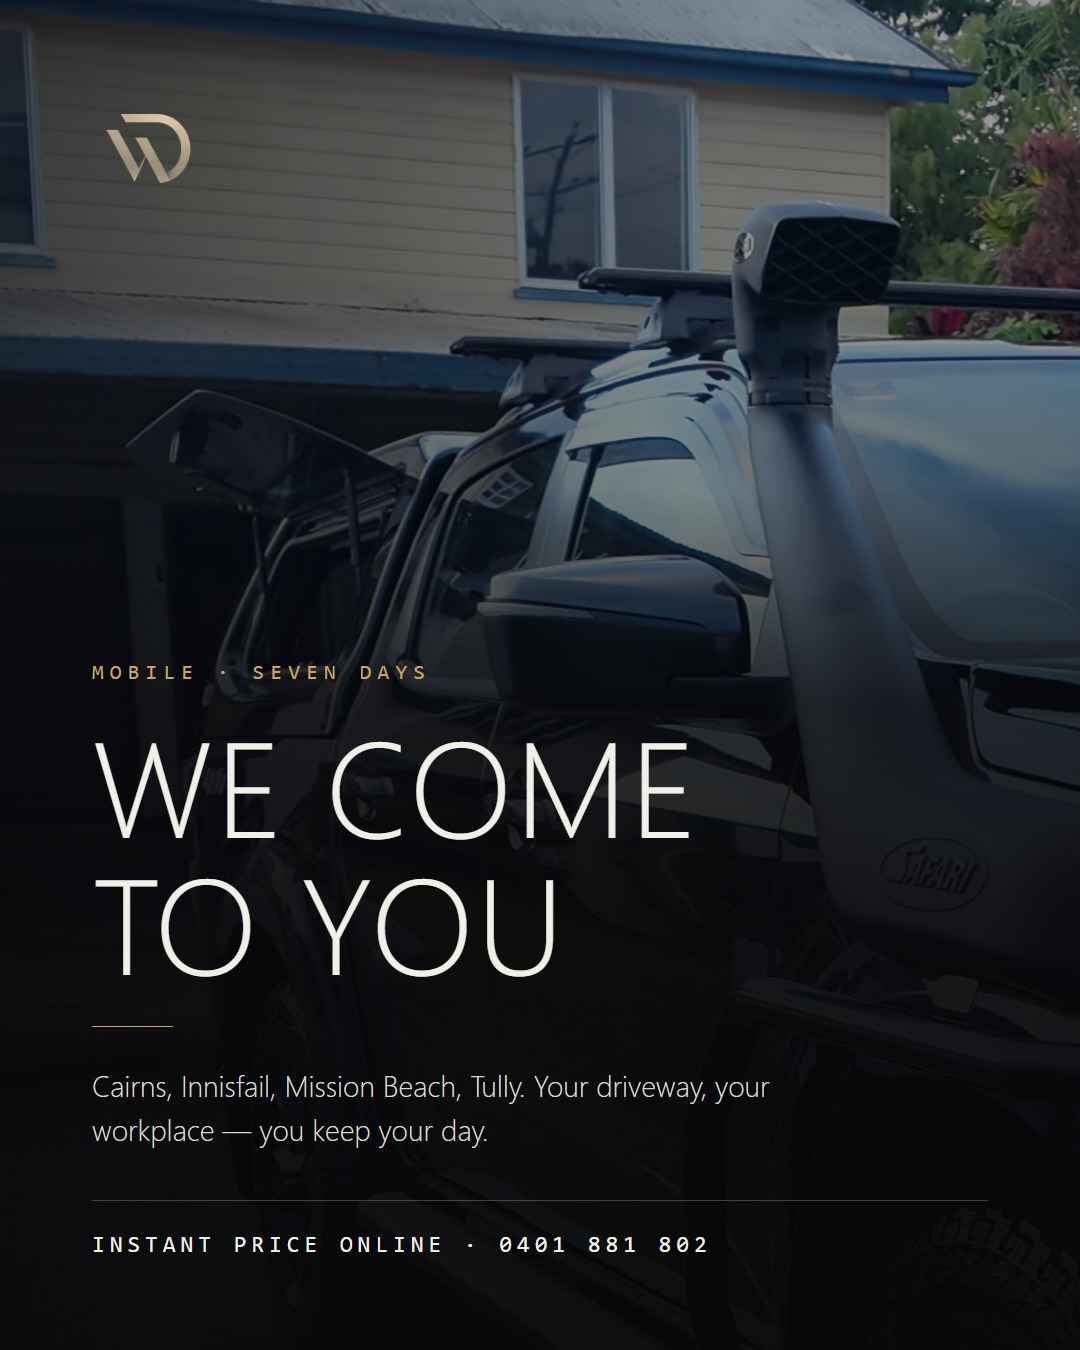
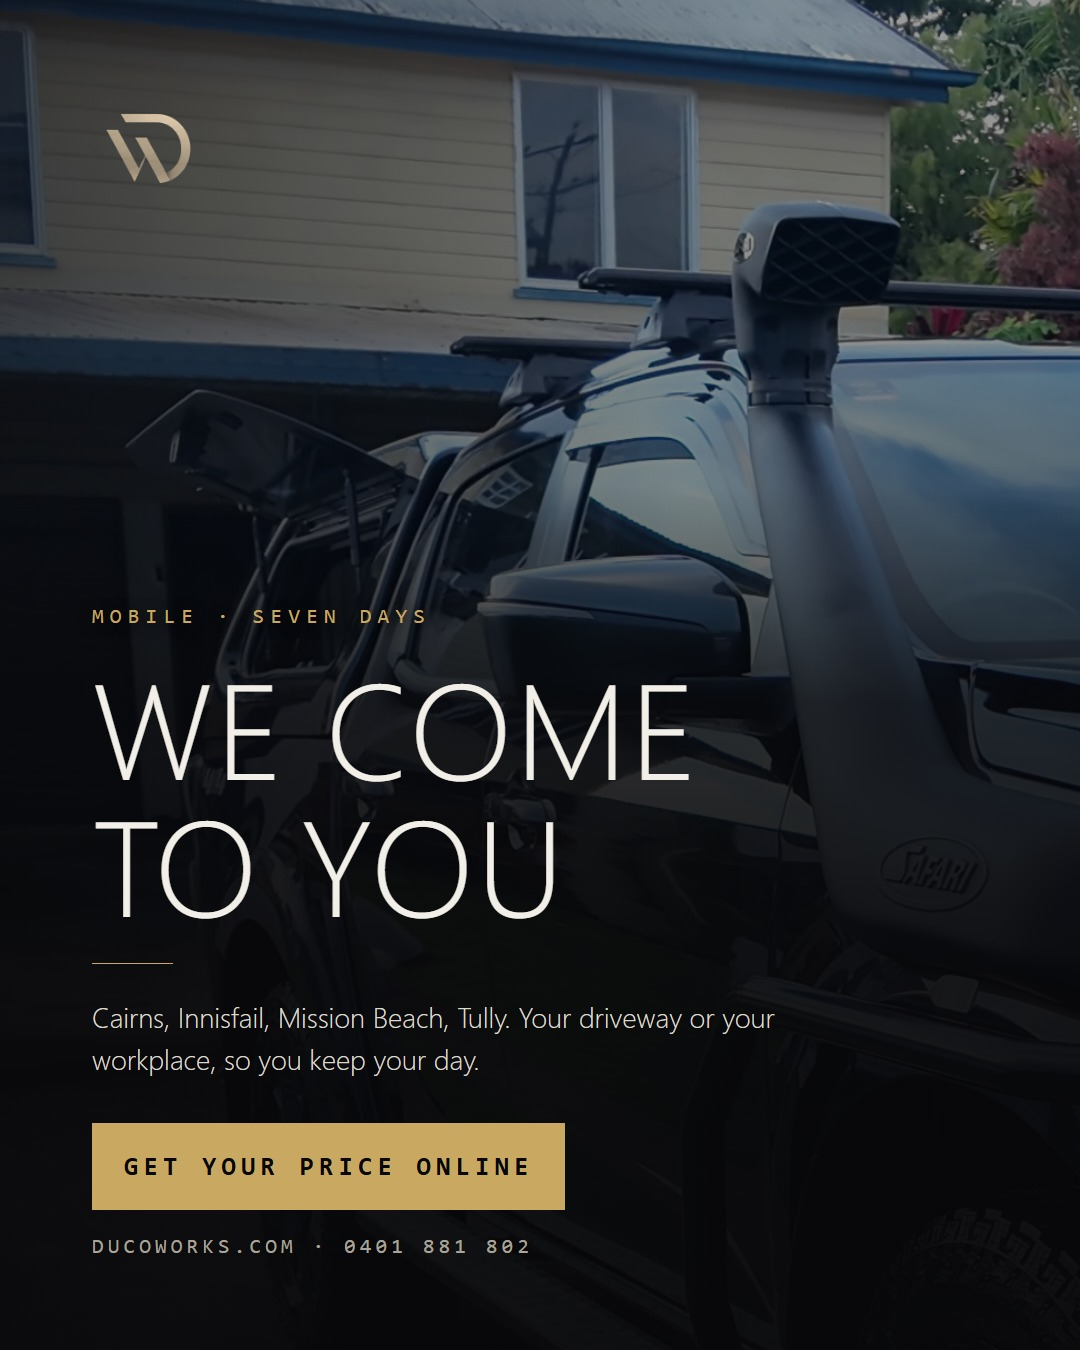
Rework the flyers: value flag, real call to action, new ceramic offer
Three changes that make them work harder:

- A value flag top-right (Save $50 / Free / 100+ cars) so the deal registers
  in the half second someone spends scrolling past.
- The contact line became a solid champagne bar. A block reads as a button;
  a line of text reads as small print.
- Headline sizing eased on three-line variants, which were running to the
  right edge, and the kicker got a shadow so champagne holds over a lit red
  bonnet.

Ceramic offer changed at Tim's request: free interior detail with every
ceramic, replacing the free glass coating. Stronger hook, and a much bigger
giveaway — hours of labour rather than half an hour and some product.

diff --git a/tools/build-flyers.js b/tools/build-flyers.js
@@ -46,32 +46,32 @@ const PHOTOS = {
 
 const FLYERS = [
   {
-    name: '1-launch', photo: 'porsche',
+    name: '1-launch', photo: 'porsche', flag: 'Save $50',
     kicker: 'Launch offer &middot; Cairns to Tully',
     headline: '$50 off<br>your first<br>detail',
-    sub: 'Mobile detailing at your place. Book online in four questions and see the price before you commit.',
-    strip: 'From $190 &middot; ducoworks.com'
+    sub: 'Mobile detailing at your place, seven days. Four questions online and you have the price — no callback, no haggling.',
+    cta: 'Book at ducoworks.com', foot: 'From $190 &middot; 0401 881 802'
   },
   {
-    name: '2-ceramic', photo: 'reflection',
-    kicker: 'Ceramic coating &middot; Innisfail workshop',
-    headline: 'Free glass<br>coating',
-    sub: 'A $180 extra, included with every five-year ceramic. Corrected first, then coated — so the finish holds for years, not weeks.',
-    strip: 'Ceramic from $1,290 &middot; ducoworks.com'
+    name: '2-ceramic', photo: 'reflection', flag: 'Free',
+    kicker: 'Five-year ceramic &middot; Innisfail workshop',
+    headline: 'Free interior<br>detail with<br>every ceramic',
+    sub: 'Paint corrected, then coated for five years. Drop it off and the inside gets done too — at no extra cost.',
+    cta: 'Ceramic from $1,290', foot: 'ducoworks.com &middot; 0401 881 802'
   },
   {
     name: '3-mobile', photo: 'dualcab',
     kicker: 'Mobile &middot; seven days',
     headline: 'We come<br>to you',
-    sub: 'Cairns, Innisfail, Mission Beach, Tully. Your driveway, your workplace — you keep your day.',
-    strip: 'Instant price online &middot; 0401 881 802'
+    sub: 'Cairns, Innisfail, Mission Beach, Tully. Your driveway or your workplace, so you keep your day.',
+    cta: 'Get your price online', foot: 'ducoworks.com &middot; 0401 881 802'
   },
   {
-    name: '4-finish', photo: 'commodore',
-    kicker: 'Over 100 cars this year',
+    name: '4-finish', photo: 'commodore', flag: '100+ cars',
+    kicker: 'Innisfail &middot; Cassowary Coast',
     headline: 'Not just<br>clean.<br>Finished.',
-    sub: 'One operator, one standard, every car. Precision. Finish. Preserve.',
-    strip: 'ducoworks.com &middot; 0401 881 802'
+    sub: 'One operator, one standard, every car. Over a hundred of them this year.',
+    cta: 'See the work', foot: 'ducoworks.com &middot; 0401 881 802'
   }
 ];
 
@@ -80,6 +80,8 @@ function page(f, W, H) {
   const r = p.rect;
   // Scale the master so the chosen rectangle exactly fills the canvas.
   const scale = Math.max(W / r.w, H / r.h);
+  const lines = f.headline.split('<br>').length;
+  const pad = Math.round(W * .085);
   return `<!doctype html><meta charset="utf-8">
 <style>
   *{margin:0;padding:0;box-sizing:border-box}
@@ -99,32 +101,53 @@ function page(f, W, H) {
           rgba(8,8,10,${p.night ? '.22' : '.4'}) 64%,
           rgba(8,8,10,${p.night ? '.1' : '.3'}) 100%),
         linear-gradient(100deg, rgba(8,8,10,${p.night ? '.4' : '.55'}) 0%, transparent 58%)}
-  .inner{position:absolute;inset:0;padding:${Math.round(W * .085)}px;
+
+  .inner{position:absolute;inset:0;padding:${pad}px;
          display:flex;flex-direction:column;justify-content:space-between}
+  .top{display:flex;align-items:flex-start;justify-content:space-between}
   .mark{width:${Math.round(W * .105)}px;height:auto;display:block}
+
+  /* The deal has to read in the half second someone spends scrolling past. */
+  .flag{border:1px solid #c9a961;color:#c9a961;
+        font-family:Consolas,monospace;font-size:${Math.round(W * .021)}px;
+        letter-spacing:.24em;text-transform:uppercase;
+        padding:${Math.round(W * .015)}px ${Math.round(W * .026)}px}
+
   .kicker{font-family:Consolas,monospace;font-size:${Math.round(W * .0195)}px;
-          letter-spacing:.3em;text-transform:uppercase;color:#c9a961;margin-bottom:${Math.round(W * .028)}px}
-  h1{font-size:${Math.round(W * (f.headline.split('<br>').length > 2 ? .107 : .125))}px;
+          letter-spacing:.3em;text-transform:uppercase;color:#c9a961;
+          text-shadow:0 2px 14px rgba(8,8,10,.9);
+          margin-bottom:${Math.round(W * .026)}px}
+  h1{font-size:${Math.round(W * (lines > 2 ? .094 : .125))}px;
      font-weight:200;letter-spacing:.02em;line-height:1.02;text-transform:uppercase}
-  .rule{width:${Math.round(W * .075)}px;height:1px;background:#c9a961;margin:${Math.round(W * .034)}px 0}
-  .sub{font-size:${Math.round(W * .0265)}px;font-weight:300;line-height:1.5;color:#ded9cf;
-       max-width:${Math.round(W * .72)}px}
-  .strip{margin-top:${Math.round(W * .045)}px;padding-top:${Math.round(W * .028)}px;
-         border-top:1px solid rgba(201,169,97,.35);
-         font-family:Consolas,monospace;font-size:${Math.round(W * .0215)}px;
-         letter-spacing:.22em;text-transform:uppercase;color:#f2efe8}
+  .rule{width:${Math.round(W * .075)}px;height:1px;background:#c9a961;
+        margin:${Math.round(W * .03)}px 0}
+  .sub{font-size:${Math.round(W * .0255)}px;font-weight:300;line-height:1.5;color:#ded9cf;
+       max-width:${Math.round(W * .74)}px}
+
+  /* A solid bar reads as a button. A line of text reads as small print. */
+  .cta{margin-top:${Math.round(W * .04)}px;background:#c9a961;color:#08080a;
+       font-family:Consolas,monospace;font-weight:700;
+       font-size:${Math.round(W * .0245)}px;letter-spacing:.2em;text-transform:uppercase;
+       padding:${Math.round(W * .026)}px ${Math.round(W * .03)}px;display:inline-block}
+  .foot{margin-top:${Math.round(W * .022)}px;
+        font-family:Consolas,monospace;font-size:${Math.round(W * .0195)}px;
+        letter-spacing:.2em;text-transform:uppercase;color:#a9a49a}
 </style>
 <div class="card">
   <img class="shot" src="${url(path.join(SRC, p.file))}">
   <div class="veil"></div>
   <div class="inner">
-    <img class="mark" src="${url(path.join(ROOT, 'mark.png'))}">
+    <div class="top">
+      <img class="mark" src="${url(path.join(ROOT, 'mark.png'))}">
+      ${f.flag ? `<span class="flag">${f.flag}</span>` : ''}
+    </div>
     <div>
       <p class="kicker">${f.kicker}</p>
       <h1>${f.headline}</h1>
       <div class="rule"></div>
       <p class="sub">${f.sub}</p>
-      <p class="strip">${f.strip}</p>
+      <div><span class="cta">${f.cta}</span></div>
+      <p class="foot">${f.foot}</p>
     </div>
   </div>
 </div>`;
